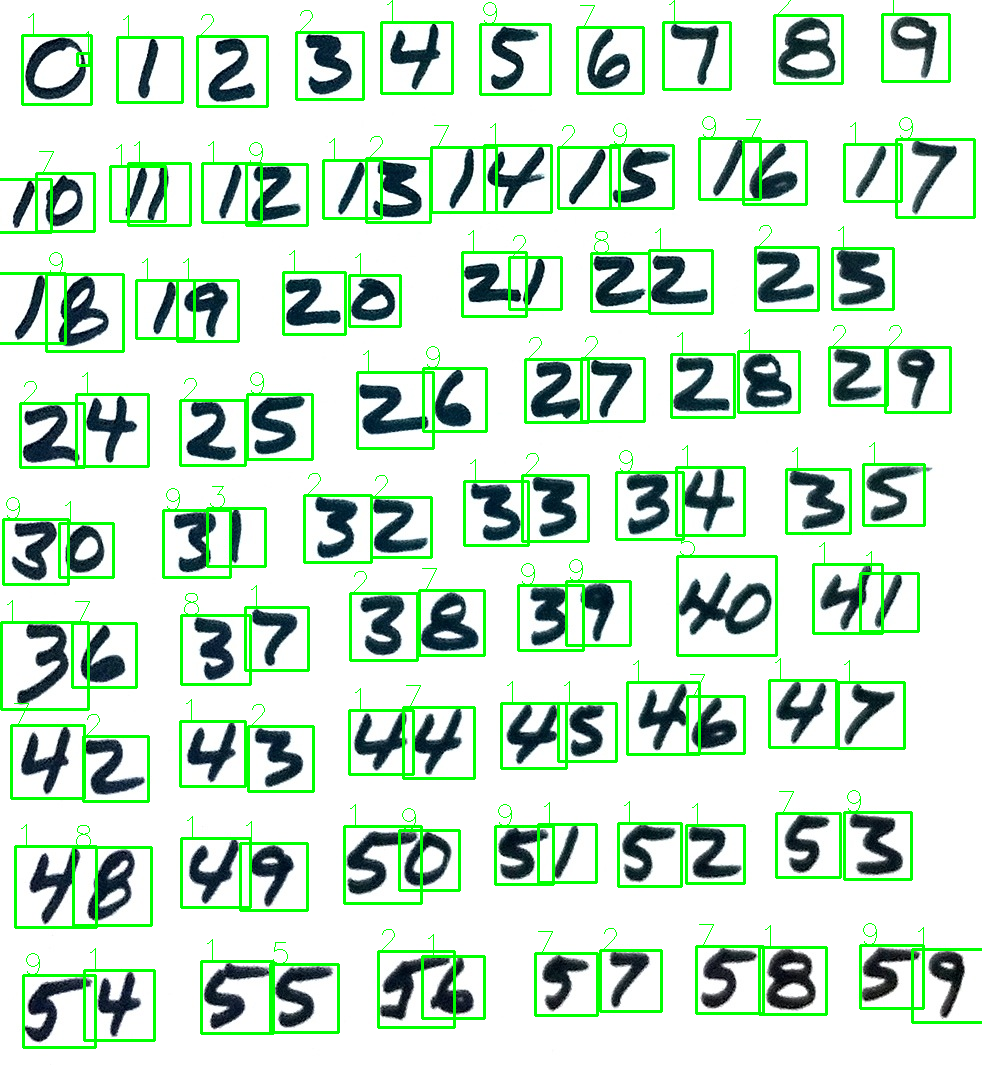
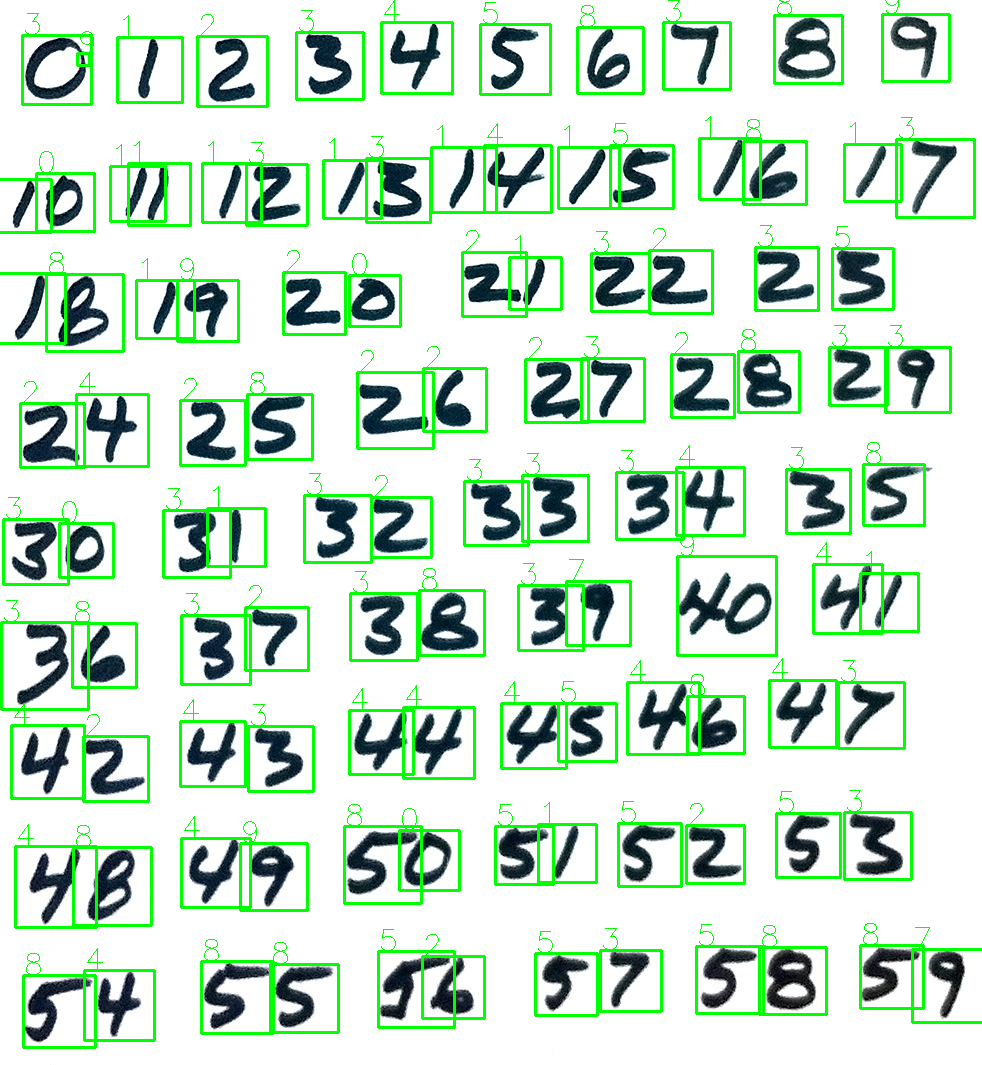
Fixing ANN retraining code to extend rather than overwrite previous results. Adjusting ANN parameters for better accuracy.

diff --git a/chapter10/animals_ann.py b/chapter10/animals_ann.py
@@ -1,14 +1,13 @@
 import cv2
 import numpy as np
-from random import randint
+from random import randint, uniform
 
 animals_net = cv2.ml.ANN_MLP_create()
-animals_net.setTrainMethod(
-    cv2.ml.ANN_MLP_RPROP | cv2.ml.ANN_MLP_UPDATE_WEIGHTS)
-animals_net.setActivationFunction(cv2.ml.ANN_MLP_SIGMOID_SYM)
-animals_net.setLayerSizes(np.array([3, 6, 4]))
+animals_net.setTrainMethod(cv2.ml.ANN_MLP_BACKPROP, 0.1, 0.1)
+animals_net.setActivationFunction(cv2.ml.ANN_MLP_SIGMOID_SYM, 0.6, 1.0)
+animals_net.setLayerSizes(np.array([3, 50, 4]))
 animals_net.setTermCriteria(
-    (cv2.TERM_CRITERIA_EPS | cv2.TERM_CRITERIA_COUNT, 10, 1))
+    (cv2.TERM_CRITERIA_MAX_ITER | cv2.TERM_CRITERIA_EPS, 100, 1.0))
 
 """Input arrays
 weight, length, teeth
@@ -19,35 +18,35 @@ dog, condor, dolphin, dragon
 """
 
 def dog_sample():
-  return [randint(10, 20), 1, randint(38, 42)]
+    return [uniform(10.0, 20.0), uniform(1.0, 1.5), randint(38, 42)]
 
 def dog_class():
-  return [1, 0, 0, 0]
+    return [1, 0, 0, 0]
 
 def condor_sample():
-  return [randint(3, 10), randint(3, 5), 0]
+    return [uniform(3.0, 10.0), randint(3.0, 5.0), 0]
 
 def condor_class():
-  return [0, 1, 0, 0]
+    return [0, 1, 0, 0]
 
 def dolphin_sample():
-  return [randint(30, 190), randint(5, 15), randint(80, 100)]
+    return [uniform(30.0, 190.0), uniform(5.0, 15.0), randint(80, 100)]
 
 def dolphin_class():
-  return [0, 0, 1, 0]
+    return [0, 0, 1, 0]
 
 def dragon_sample():
-  return [randint(1200, 1800), randint(30, 40), randint(160, 180)]
+    return [uniform(1200.0, 1800.0), uniform(30.0, 40.0), randint(160, 180)]
 
 def dragon_class():
-  return [0, 0, 0, 1]
+    return [0, 0, 0, 1]
 
 def record(sample, classification):
-  return (np.array([sample], np.float32),
-          np.array([classification], np.float32))
+    return (np.array([sample], np.float32),
+            np.array([classification], np.float32))
 
 
-RECORDS = 5000
+RECORDS = 20000
 records = []
 for x in range(0, RECORDS):
   records.append(record(dog_sample(), dog_class()))
@@ -55,48 +54,52 @@ for x in range(0, RECORDS):
   records.append(record(dolphin_sample(), dolphin_class()))
   records.append(record(dragon_sample(), dragon_class()))
 
-EPOCHS = 2
+EPOCHS = 10
 for e in range(0, EPOCHS):
-  print("epoch: %d" % e)
-  for t, c in records:
-    animals_net.train(t, cv2.ml.ROW_SAMPLE, c)
+    print("epoch: %d" % e)
+    for t, c in records:
+        data = cv2.ml.TrainData_create(t, cv2.ml.ROW_SAMPLE, c)
+        if animals_net.isTrained():
+            animals_net.train(data, cv2.ml.ANN_MLP_UPDATE_WEIGHTS | cv2.ml.ANN_MLP_NO_INPUT_SCALE | cv2.ml.ANN_MLP_NO_OUTPUT_SCALE)
+        else:
+            animals_net.train(data, cv2.ml.ANN_MLP_NO_INPUT_SCALE | cv2.ml.ANN_MLP_NO_OUTPUT_SCALE)
 
 
 TESTS = 100
 
 dog_results = 0
 for x in range(0, TESTS):
-  clas = int(animals_net.predict(
-      np.array([dog_sample()], np.float32))[0])
-  print("class: %d" % clas)
-  if clas == 0:
-      dog_results += 1
+    clas = int(animals_net.predict(
+        np.array([dog_sample()], np.float32))[0])
+    print("class: %d" % clas)
+    if clas == 0:
+        dog_results += 1
 
 condor_results = 0
 for x in range(0, TESTS):
-  clas = int(animals_net.predict(
-      np.array([condor_sample()], np.float32))[0])
-  print("class: %d" % clas)
-  if clas == 1:
-      condor_results += 1
+    clas = int(animals_net.predict(
+        np.array([condor_sample()], np.float32))[0])
+    print("class: %d" % clas)
+    if clas == 1:
+        condor_results += 1
 
 dolphin_results = 0
 for x in range(0, TESTS):
-  clas = int(animals_net.predict(
-      np.array([dolphin_sample()], np.float32))[0])
-  print("class: %d" % clas)
-  if clas == 2:
-      dolphin_results += 1
+    clas = int(animals_net.predict(
+        np.array([dolphin_sample()], np.float32))[0])
+    print("class: %d" % clas)
+    if clas == 2:
+        dolphin_results += 1
 
 dragon_results = 0
 for x in range(0, TESTS):
-  clas = int(animals_net.predict(
-      np.array([dragon_sample()], np.float32))[0])
-  print("class: %d" % clas)
-  if clas == 3:
-      dragon_results += 1
+    clas = int(animals_net.predict(
+        np.array([dragon_sample()], np.float32))[0])
+    print("class: %d" % clas)
+    if clas == 3:
+        dragon_results += 1
 
-print("Dog accuracy: %.2f%%" % (100.0 * dog_results / TESTS))
+print("dog accuracy: %.2f%%" % (100.0 * dog_results / TESTS))
 print("condor accuracy: %.2f%%" % (100.0 * condor_results / TESTS))
 print("dolphin accuracy: %.2f%%" % (100.0 * dolphin_results / TESTS))
 print("dragon accuracy: %.2f%%" % (100.0 * dragon_results / TESTS))

diff --git a/chapter10/digits_ann.py b/chapter10/digits_ann.py
@@ -39,10 +39,10 @@ def vectorized_result(j):
 def create_ANN(hidden_nodes=20):
     ann = cv2.ml.ANN_MLP_create()
     ann.setLayerSizes(np.array([784, hidden_nodes, 10]))
-    ann.setTrainMethod(cv2.ml.ANN_MLP_RPROP)
-    ann.setActivationFunction(cv2.ml.ANN_MLP_SIGMOID_SYM)
+    ann.setTrainMethod(cv2.ml.ANN_MLP_BACKPROP, 0.1, 0.1)
+    ann.setActivationFunction(cv2.ml.ANN_MLP_SIGMOID_SYM, 0.6, 1.0)
     ann.setTermCriteria(
-        (cv2.TERM_CRITERIA_EPS | cv2.TERM_CRITERIA_COUNT, 100, 1))
+        (cv2.TERM_CRITERIA_MAX_ITER | cv2.TERM_CRITERIA_EPS, 100, 1.0))
     return ann
 
 def train(ann, samples=10000, epochs=1):
@@ -63,10 +63,15 @@ def train(ann, samples=10000, epochs=1):
                 print("Epoch %d: Trained on %d/%d samples" % \
                       (epoch, counter, samples))
             counter += 1
-            data, digit = img
-            ann.train(np.array([data.ravel()], dtype=np.float32),
-                      cv2.ml.ROW_SAMPLE,
-                      np.array([digit.ravel()], dtype=np.float32))
+            sample, response = img
+            data = cv2.ml.TrainData_create(
+                np.array([sample.ravel()], dtype=np.float32),
+                cv2.ml.ROW_SAMPLE,
+                np.array([response.ravel()], dtype=np.float32))
+            if ann.isTrained():
+                ann.train(data, cv2.ml.ANN_MLP_UPDATE_WEIGHTS | cv2.ml.ANN_MLP_NO_INPUT_SCALE | cv2.ml.ANN_MLP_NO_OUTPUT_SCALE)
+            else:
+                ann.train(data, cv2.ml.ANN_MLP_NO_INPUT_SCALE | cv2.ml.ANN_MLP_NO_OUTPUT_SCALE)
     print("Completed all epochs!")
 
     return ann, test

diff --git a/chapter10/detect_and_classify_digits.py b/chapter10/detect_and_classify_digits.py
@@ -32,7 +32,7 @@ def wrap_digit(rect):
     h += 2 * padding
     return x, y, w, h
 
-ann, test_data = ANN.train(ANN.create_ANN(58), 50000, 5)
+ann, test_data = ANN.train(ANN.create_ANN(60), 50000, 10)
 font = cv2.FONT_HERSHEY_SIMPLEX
 
 img_path = "./digit_images/digits_0.jpg"
